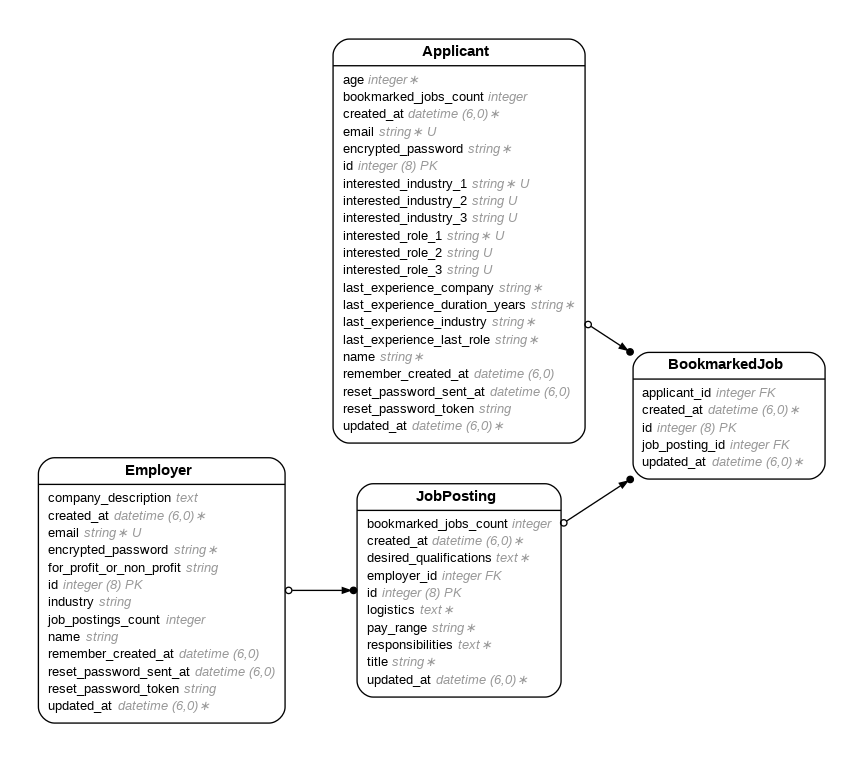
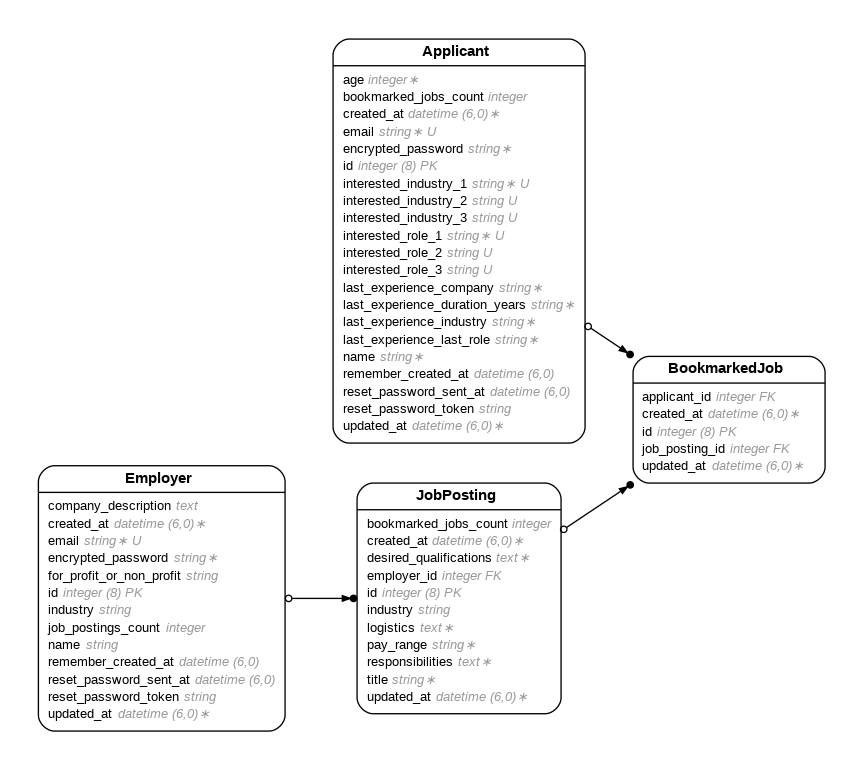
fixed bugs on adding job postings for employer

diff --git a/config/routes.rb b/config/routes.rb
@@ -14,9 +14,9 @@ Rails.application.routes.draw do
   
   get("/bookmarked_jobs/:path_id", { :controller => "bookmarked_jobs", :action => "show" })
   
-  # UPDATE
+  # # UPDATE
   
-  post("/modify_bookmarked_job/:path_id", { :controller => "bookmarked_jobs", :action => "update" })
+  # post("/modify_bookmarked_job/:path_id", { :controller => "bookmarked_jobs", :action => "update" })
   
   # DELETE
   get("/delete_bookmarked_job/:path_id", { :controller => "bookmarked_jobs", :action => "destroy" })
@@ -25,24 +25,29 @@ Rails.application.routes.draw do
 
   # Routes for the Job posting resource:
 
+  # Employers can post after sign-in which gets updated to the job posting database
+  # Then employer can view the job postings they have posted (not from other employers), and update individual job postings
+  # Applicants can see all job postings from all employers (including bookmark status from themselves)
+  # Applicants can add / remove bookmark to individual posting
+
   # CREATE
-  post("/insert_job_posting", { :controller => "job_postings", :action => "create" })
-          
+  post("/insert_job_posting", { :controller => "job_postings", :action => "create" }) #for employers
+
   # READ
+  get("/job_postings/new", { :controller => "job_postings", :action => "new"}) #for employers
+
   get("/job_postings", { :controller => "job_postings", :action => "index" }) #for applicants
 
   get("/job_postings/employers/:id", { :controller => "job_postings", :action => "employ" }) #for employers
   
-  get("/job_postings/new", { :controller => "job_postings", :action => "new"})
-
   get("/job_postings/:path_id", { :controller => "job_postings", :action => "show" })
   
   # UPDATE
   
   post("/modify_job_posting/:path_id", { :controller => "job_postings", :action => "update" })
   
-  # DELETE
-  get("/delete_job_posting/:path_id", { :controller => "job_postings", :action => "destroy" })
+  # # DELETE
+  # get("/delete_job_posting/:path_id", { :controller => "job_postings", :action => "destroy" })
 
   #------------------------------
 

diff --git a/app/controllers/job_postings_controller.rb b/app/controllers/job_postings_controller.rb
@@ -1,6 +1,6 @@
 class JobPostingsController < ApplicationController
   def new
-    @job_posting = JobPosting.new
+    # @job_posting = JobPosting.new
     render({ :template => "job_postings/new"})
   end
 
@@ -36,14 +36,14 @@ class JobPostingsController < ApplicationController
     the_job_posting.desired_qualifications = params.fetch("query_desired_qualifications")
     the_job_posting.logistics = params.fetch("query_logistics")
     the_job_posting.pay_range = params.fetch("query_pay_range")
-    # the_job_posting.employer_id = current_employer.id
-    # the_job_posting.bookmarked_jobs_count = params.fetch("query_bookmarked_jobs_count")
+    the_job_posting.employer_id = current_employer.id
+    the_job_posting.industry = current_employer.industry
 
     if the_job_posting.valid?
       the_job_posting.save
-      redirect_to("job_postings", { :notice => "Job posting created successfully." })
+      redirect_to("/job_postings/employers/#{current_employer.id}", { :notice => "Job posting created successfully." })
     else
-      redirect_to("job_postings", { :alert => the_job_posting.errors.full_messages.to_sentence })
+      redirect_to("/job_postings/employers/#{current_employer.id}", { :alert => the_job_posting.errors.full_messages.to_sentence })
     end
   end
 

diff --git a/db/schema.rb b/db/schema.rb
@@ -10,7 +10,7 @@
 #
 # It's strongly recommended that you check this file into your version control system.
 
-ActiveRecord::Schema[7.1].define(version: 2024_12_11_191858) do
+ActiveRecord::Schema[7.1].define(version: 2024_12_12_191040) do
   # These are extensions that must be enabled in order to support this database
   enable_extension "plpgsql"
 
@@ -73,6 +73,7 @@ ActiveRecord::Schema[7.1].define(version: 2024_12_11_191858) do
     t.integer "bookmarked_jobs_count"
     t.datetime "created_at", null: false
     t.datetime "updated_at", null: false
+    t.string "industry"
   end
 
 end

diff --git a/app/models/job_posting.rb b/app/models/job_posting.rb
@@ -5,6 +5,7 @@
 #  id                     :bigint           not null, primary key
 #  bookmarked_jobs_count  :integer
 #  desired_qualifications :text
+#  industry               :string
 #  logistics              :text
 #  pay_range              :string
 #  responsibilities       :text
@@ -13,6 +14,7 @@
 #  updated_at             :datetime         not null
 #  employer_id            :integer
 #
+
 class JobPosting < ApplicationRecord
   belongs_to :employer, required: true, class_name: "Employer", foreign_key: "employer_id", counter_cache: true
 

diff --git a/db/migrate/20241212191040_add_industry_to_job_postings.rb b/db/migrate/20241212191040_add_industry_to_job_postings.rb
@@ -1,0 +1,5 @@
+class AddIndustryToJobPostings < ActiveRecord::Migration[7.1]
+  def change
+    add_column :job_postings, :industry, :string
+  end
+end
